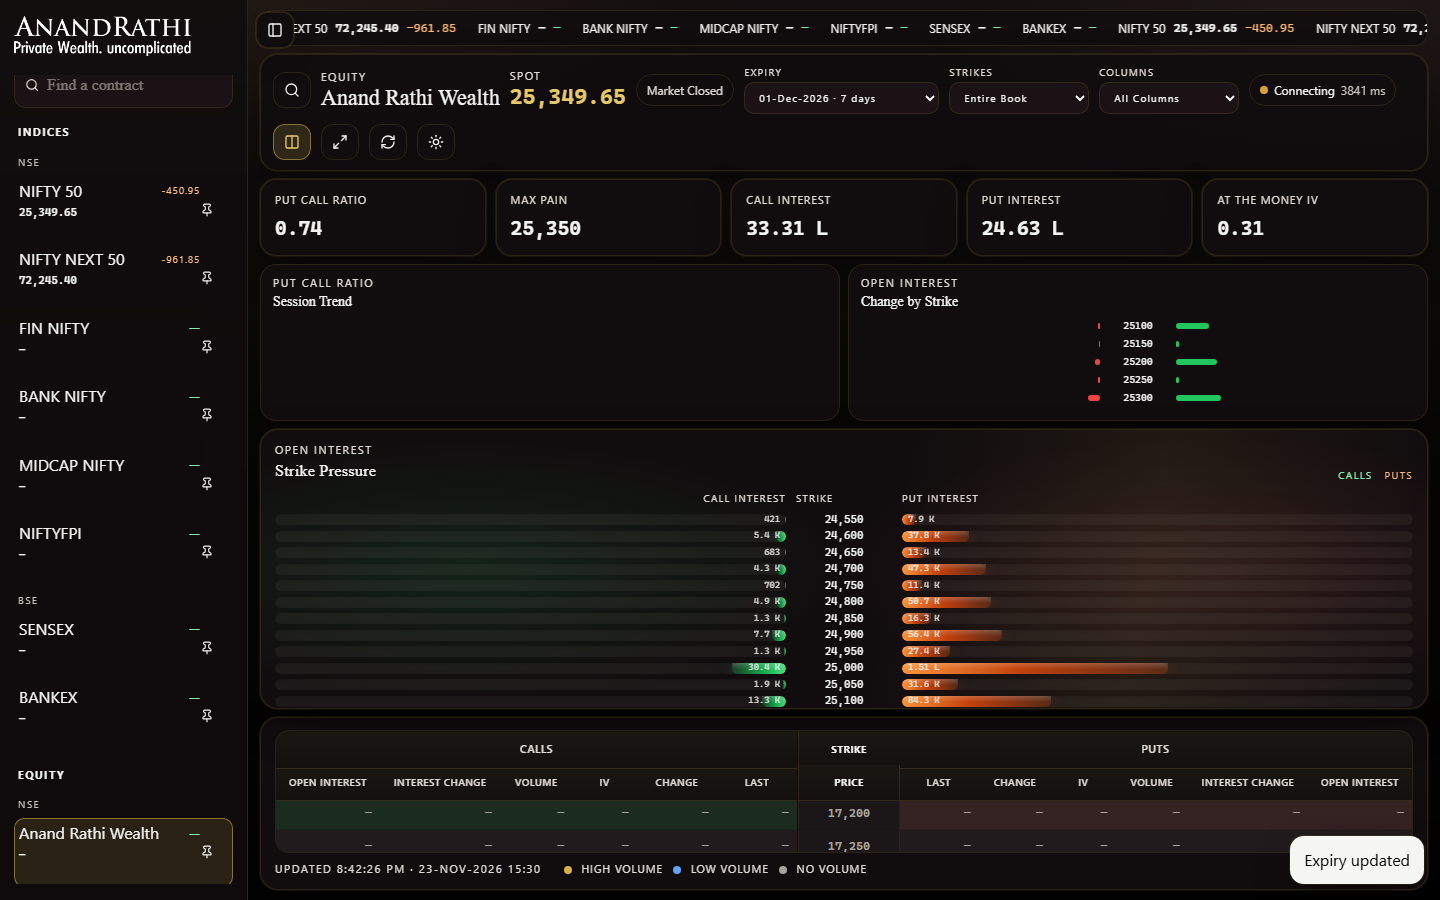
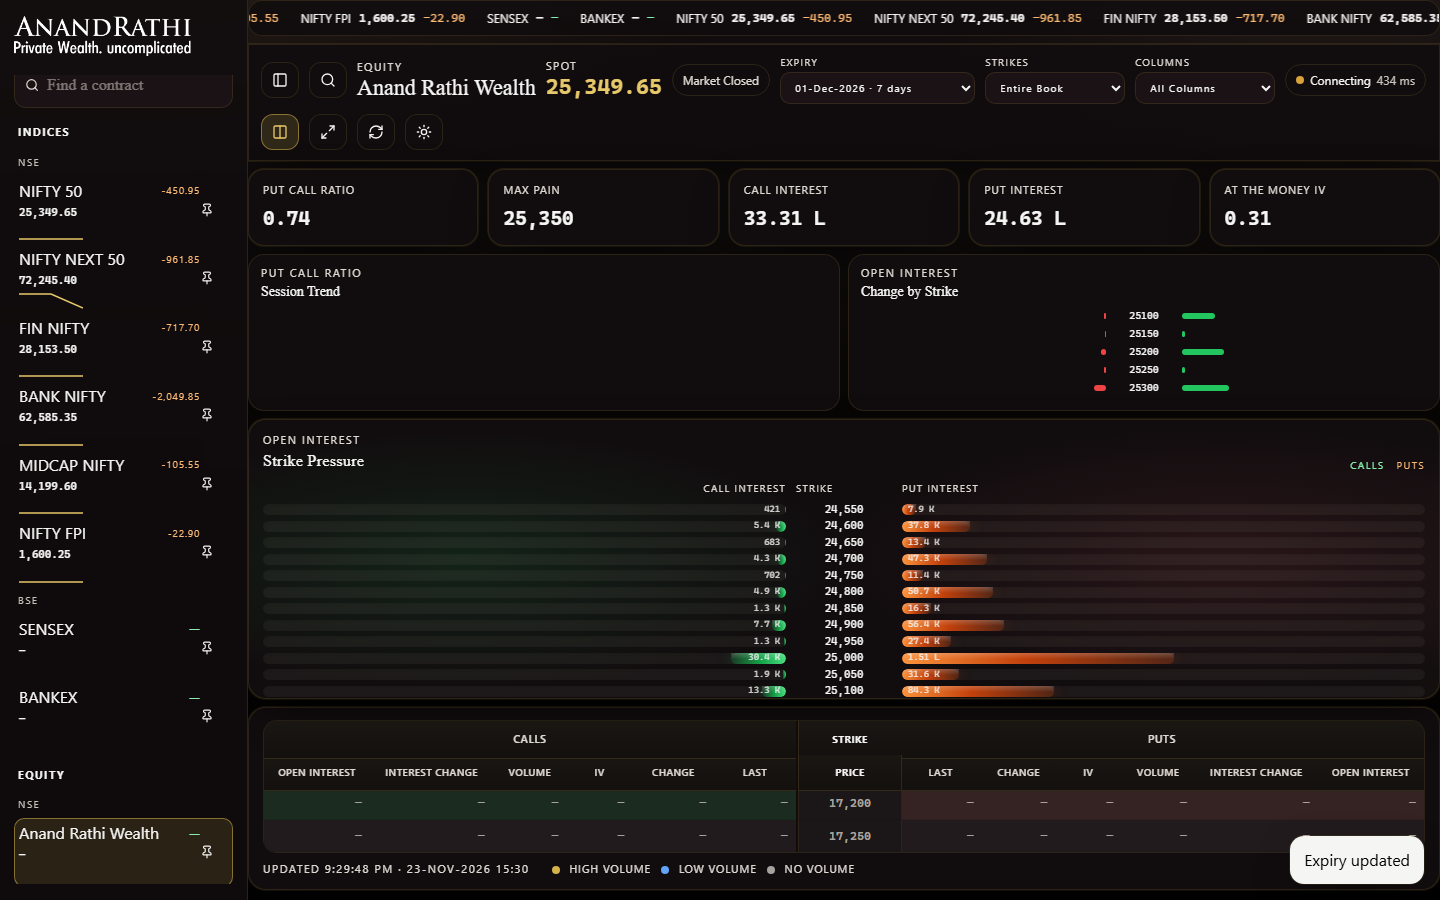
Keep the phone chain on screen with the strike centered.
The trend charts were covering the book, the expiry control ran off the edge, and the strike was not scrolled into view.

diff --git a/web/e2e/desk.spec.ts b/web/e2e/desk.spec.ts
@@ -77,8 +77,7 @@ test("desk, density, volume shade, stream, and motion", async ({ page }, testInf
   await expect(page.locator(".terminal")).toHaveClass(/is-magnified/);
   await page.getByRole("button", { name: "Exit magnify" }).click();
   await expect(page.locator(".terminal")).not.toHaveClass(/is-magnified/);
-  if (narrow) await page.getByRole("button", { name: "Expand sidebar" }).click();
-  await expect(page.locator(".rail")).not.toHaveClass(/is-collapsed/);
+  if (narrow) await expect(page.locator(".rail")).toHaveClass(/is-collapsed/);
 
   const barWidth = await page.locator(".oi-fill").first().evaluate((el) => parseFloat(getComputedStyle(el).width));
   expect(barWidth).toBeGreaterThan(0);
@@ -113,11 +112,18 @@ test("desk, density, volume shade, stream, and motion", async ({ page }, testInf
     const toolbar = document.querySelector(".toolbar") as HTMLElement;
     const stage = document.querySelector(".stage") as HTMLElement;
     chain.scrollTop = 140;
-    if (chain.scrollWidth > chain.clientWidth + 8) chain.scrollLeft = 180;
-    const strike = chain.querySelector(".strike-cell") as HTMLElement;
+    const strike = chain.querySelector("tbody .strike-cell") as HTMLElement;
+    if (chain.scrollWidth > chain.clientWidth + 8 && strike) {
+      const delta = strike.getBoundingClientRect().left - chain.getBoundingClientRect().left;
+      chain.scrollLeft = Math.max(0, chain.scrollLeft + delta - chain.clientWidth / 2 + strike.clientWidth / 2);
+    }
     const cRect = chain.getBoundingClientRect();
     const sRect = strike.getBoundingClientRect();
     return {
+      strikeLeft: Math.round(sRect.left),
+      strikeRight: Math.round(sRect.right),
+      chainLeft: Math.round(cRect.left),
+      chainRight: Math.round(cRect.right),
       pageOverflow: doc.scrollWidth - doc.clientWidth,
       docScroll: doc.scrollTop,
       chainTop: chain.scrollTop,
@@ -143,10 +149,11 @@ test("desk, density, volume shade, stream, and motion", async ({ page }, testInf
   if (layout.chainOverflows) {
     expect(layout.chainLeft).toBeGreaterThan(0);
     if (testInfo.project.name !== "phone-narrow") {
-      expect(layout.strikeInside).toBe(true);
+      expect(layout.strikeInside, JSON.stringify(layout)).toBe(true);
     }
   }
   if (narrow) {
+    await page.getByRole("button", { name: "Expand sidebar" }).click();
     await expect(page.locator(".rail.is-sheet")).toBeVisible();
     await expect(page.locator(".symbol-main").first()).toBeVisible();
     const expiryBox = await page.getByLabel("Expiry").boundingBox();
@@ -157,6 +164,7 @@ test("desk, density, volume shade, stream, and motion", async ({ page }, testInf
     expect(target!.height).toBeGreaterThanOrEqual(44);
   }
 
+  if (narrow) await page.getByRole("button", { name: "Collapse sidebar" }).click();
   fs.mkdirSync(shotDir, { recursive: true });
   await page.screenshot({
     path: path.join(shotDir, `desk-${testInfo.project.name}.png`),

diff --git a/web/src/app/globals.css b/web/src/app/globals.css
@@ -1074,13 +1074,19 @@ html.dark .quote-card.put {
     background: rgba(8, 6, 4, 0.45);
   }
 
+  .toolbar {
+    position: relative;
+    z-index: 40;
+  }
+
   .rail.is-sheet:not(.is-collapsed) {
     position: fixed;
     z-index: 36;
     left: 8px;
     right: 8px;
+    top: 76px;
     bottom: 12px;
-    height: min(68dvh, 560px);
+    height: auto;
     border-radius: 18px;
     overflow: auto;
     box-shadow: var(--ar-shadow);
@@ -1177,17 +1183,6 @@ html.dark .quote-card.put {
     min-width: 720px;
   }
 
-  .chain-table .strike-cell {
-    position: static;
-    left: auto;
-  }
-
-  .chain-table thead .strike-cell {
-    position: sticky;
-    top: 28px;
-    left: auto;
-  }
-
   .toolbar {
     border-radius: 0;
     border-left: 0;
@@ -1269,9 +1264,12 @@ html.dark .quote-card.put {
   }
 
   .toolbar {
-    flex-wrap: nowrap;
-    overflow-x: auto;
-    overscroll-behavior-x: contain;
+    flex-wrap: wrap;
+    overflow: visible;
+  }
+
+  .field select {
+    max-width: 168px;
   }
 
   .oi-chart {
@@ -1290,17 +1288,6 @@ html.dark .quote-card.put {
 
   .chain-scroll[data-density="full"] .chain-table {
     min-width: 1040px;
-  }
-
-  .chain-table .strike-cell {
-    position: static;
-    left: auto;
-  }
-
-  .chain-table thead .strike-cell {
-    position: sticky;
-    top: 28px;
-    left: auto;
   }
 
   .chain-table thead th,
@@ -1667,4 +1654,26 @@ html.dark .is-itm {
 
 ::-webkit-scrollbar-track {
   background: transparent;
+}
+
+@media (max-width: 700px) {
+  .ticker,
+  .analytics-row {
+    display: none;
+  }
+
+  .chain-scroll {
+    min-height: 320px;
+  }
+
+  .kpi-row {
+    display: grid;
+    grid-template-columns: 1fr 1fr;
+    overflow: visible;
+  }
+
+  .kpi {
+    flex: none;
+    min-width: 0;
+  }
 }

diff --git a/web/src/components/option-chain-table.tsx b/web/src/components/option-chain-table.tsx
@@ -129,7 +129,20 @@ export function OptionChainTable({
     const scroller = row?.closest(".chain-scroll");
     if (!row || !(scroller instanceof HTMLElement)) return;
     const top = row.offsetTop - scroller.clientHeight / 2 + row.clientHeight / 2;
-    scroller.scrollTo({ top: Math.max(0, top), behavior: reduce ? "auto" : "smooth" });
+    const cell = row.querySelector(".strike-cell");
+    const delta =
+      cell instanceof HTMLElement
+        ? cell.getBoundingClientRect().left - scroller.getBoundingClientRect().left
+        : 0;
+    const left =
+      cell instanceof HTMLElement
+        ? scroller.scrollLeft + delta - scroller.clientWidth / 2 + cell.clientWidth / 2
+        : scroller.scrollLeft;
+    scroller.scrollTo({
+      top: Math.max(0, top),
+      left: Math.max(0, left),
+      behavior: reduce ? "auto" : "smooth",
+    });
   }, [reduce, snapshot.expiry, snapshot.symbol, spotStrike]);
 
   return (

diff --git a/web/src/lib/display.ts b/web/src/lib/display.ts
@@ -4,6 +4,7 @@ const LABELS: Record<string, string> = {
   FINNIFTY: "FIN NIFTY",
   MIDCPNIFTY: "MIDCAP NIFTY",
   NIFTYNXT50: "NIFTY NEXT 50",
+  NIFTYFPI: "NIFTY FPI",
   SENSEX: "SENSEX",
   BANKEX: "BANKEX",
   SENSEX50: "SENSEX 50",
@@ -59,7 +60,7 @@ export function describeExpiry(raw: string, now = new Date()): ExpiryInfo | null
   const days = Math.round((date.getTime() - start.getTime()) / 86_400_000);
   const lateShift = date.getDay() !== 4 && date.getDate() >= 24;
   const bucket: ExpiryInfo["bucket"] = isLastThursday(date) || lateShift ? "monthly" : "weekly";
-  const when = days === 0 ? "today" : days === 1 ? "1 day" : `${days} days`;
+  const when = days < 0 ? "passed" : days === 0 ? "today" : days === 1 ? "1 day" : `${days} days`;
   return {
     raw,
     date,
